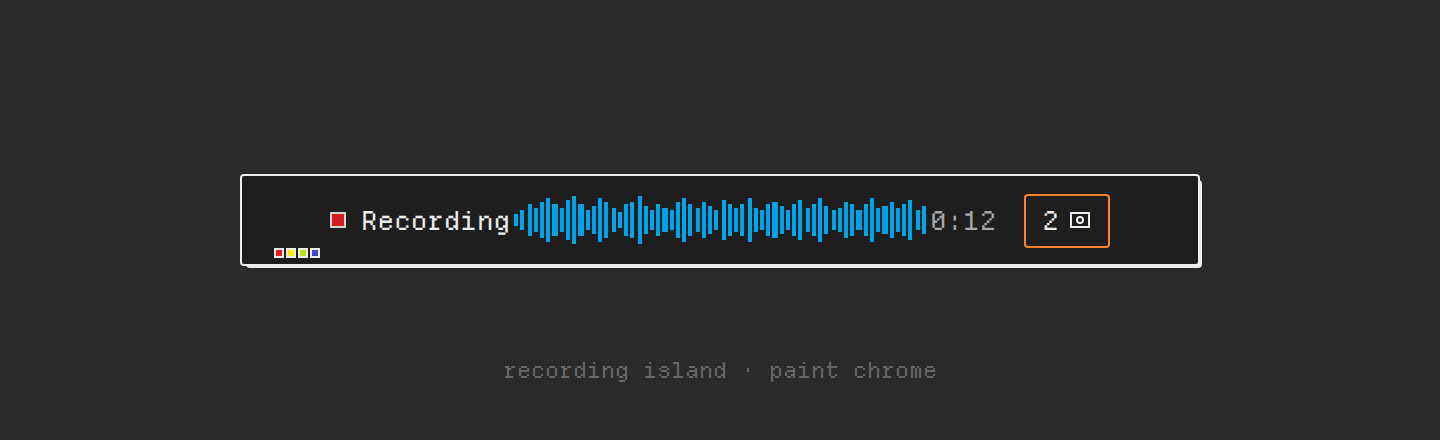
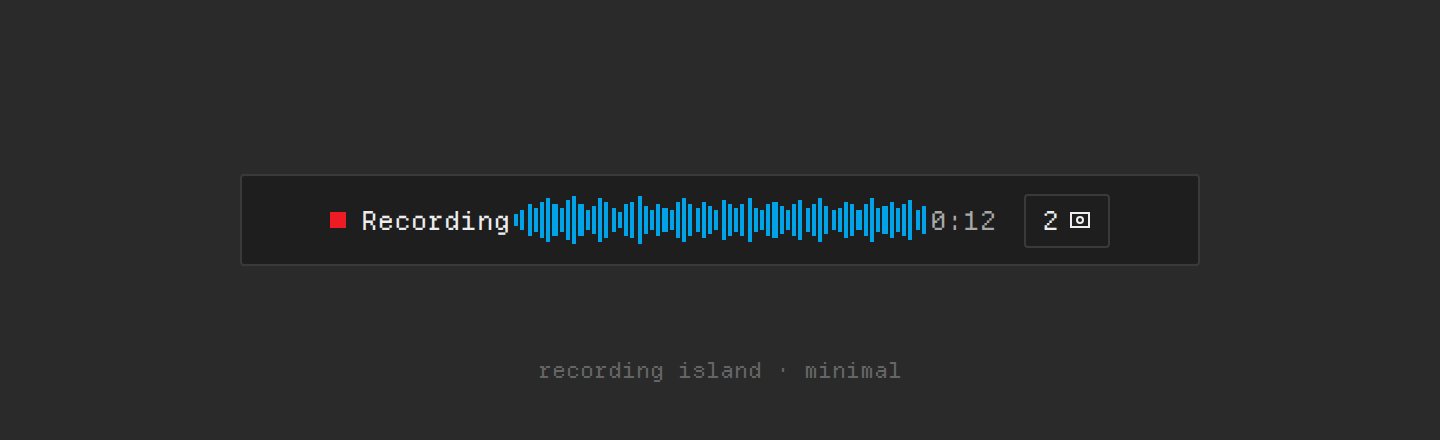
fix(chrome): minimal recording island — drop palette + shadow
Patrick feedback: strip decorative mini palette and hard offset shadow.
Flat fill + thin hairline; keep record square, label, waveform, clock,
capture chip. Same treatment on markup toolbar chrome. Panel size is
exact again. Regen recording-paint light/dark mocks; README sync.

diff --git a/PromptAnnotator/Chrome/RecordingIsland.swift b/PromptAnnotator/Chrome/RecordingIsland.swift
@@ -26,8 +26,7 @@ struct RecordingIslandView: View {
             captures: session.captureCount,
             elapsed: session.elapsed
         )
-        // Hard offset shadow is drawn inside the panel (ChromePanel masksToBounds).
-        // Content footprint stays the same; shadow room is added in islandPanelSize().
+        // Minimal: flat fill + thin hairline. No palette strip, no hard offset shadow.
         return HStack(spacing: 0) {
             leading(layout)
             LiveWaveform(
@@ -40,45 +39,17 @@ struct RecordingIslandView: View {
         }
         .padding(.horizontal, IslandMetrics.inset)
         .frame(width: layout.panel.width, height: layout.panel.height)
-        .overlay(alignment: .bottomLeading) {
-            miniPalette
-                .padding(.leading, IslandMetrics.inset)
-                .padding(.bottom, 3)
-        }
         .background {
-            RoundedRectangle(cornerRadius: Ink.cardRadius, style: .continuous)
-                .fill(Ink.label)
-                .offset(x: Ink.buttonShadow, y: Ink.buttonShadow)
             RoundedRectangle(cornerRadius: Ink.cardRadius, style: .continuous)
                 .fill(Ink.window)
                 .overlay(
                     RoundedRectangle(cornerRadius: Ink.cardRadius, style: .continuous)
-                        .strokeBorder(Ink.label, lineWidth: 1.5)
+                        .strokeBorder(Ink.hairline, lineWidth: 1)
                 )
         }
-        .padding(.trailing, Ink.buttonShadow)
-        .padding(.bottom, Ink.buttonShadow)
         .accessibilityElement(children: .ignore)
         .accessibilityLabel(islandAccessibilityLabel)
         .onAppear { pulse = true }
-    }
-
-    /// Tiny Paint swatch strip — decorative, no layout cost.
-    private var miniPalette: some View {
-        HStack(spacing: 1) {
-            miniSwatch(Ink.paintRed)
-            miniSwatch(Ink.paintYellow)
-            miniSwatch(Ink.paintLime)
-            miniSwatch(Ink.paintBlue)
-        }
-        .accessibilityHidden(true)
-    }
-
-    private func miniSwatch(_ color: Color) -> some View {
-        Rectangle()
-            .fill(color)
-            .frame(width: 5, height: 5)
-            .overlay(Rectangle().strokeBorder(Ink.label, lineWidth: 0.5))
     }
 
     private var islandAccessibilityLabel: String {
@@ -184,7 +155,6 @@ struct RecordingIslandView: View {
     private var recordDot: some View {
         Rectangle()
             .fill(Ink.record)
-            .overlay(Rectangle().strokeBorder(Ink.label, lineWidth: 1))
             .frame(width: 8, height: 8)
             .opacity(pulse ? 1 : 0.35)
             .animation(.easeInOut(duration: 0.85).repeatForever(autoreverses: true), value: pulse)

diff --git a/PromptAnnotator/Chrome/CaptureCountChip.swift b/PromptAnnotator/Chrome/CaptureCountChip.swift
@@ -1,6 +1,6 @@
 import SwiftUI
 
-/// The snapshot count that slides out beside the clock — Paint tile chip.
+/// The snapshot count that slides out beside the clock — flat, hairline only.
 struct CaptureCountChip: View {
     var count: Int
     var ink: Color = Ink.label
@@ -21,7 +21,7 @@ struct CaptureCountChip: View {
         .background(Ink.window, in: RoundedRectangle(cornerRadius: Ink.buttonRadius, style: .continuous))
         .overlay(
             RoundedRectangle(cornerRadius: Ink.buttonRadius, style: .continuous)
-                .strokeBorder(Ink.paintOrange, lineWidth: 1.5)
+                .strokeBorder(Ink.hairline, lineWidth: 1)
         )
         .accessibilityElement(children: .ignore)
         .accessibilityLabel("\(count) \(count == 1 ? "capture" : "captures")")

diff --git a/PromptAnnotator/Chrome/MarkupToolbar.swift b/PromptAnnotator/Chrome/MarkupToolbar.swift
@@ -38,16 +38,9 @@ struct MarkupToolbarView: View {
                 .fill(Ink.window)
                 .overlay(
                     RoundedRectangle(cornerRadius: Ink.cardRadius, style: .continuous)
-                        .strokeBorder(Ink.label, lineWidth: 1.5)
-                )
-                .background(
-                    RoundedRectangle(cornerRadius: Ink.cardRadius, style: .continuous)
-                        .fill(Ink.label)
-                        .offset(x: Ink.hardShadow, y: Ink.hardShadow)
+                        .strokeBorder(Ink.hairline, lineWidth: 1)
                 )
         }
-        .padding(.trailing, Ink.hardShadow)
-        .padding(.bottom, Ink.hardShadow)
     }
 
     private var captureButton: some View {

diff --git a/PromptAnnotator/SessionController.swift b/PromptAnnotator/SessionController.swift
@@ -1169,17 +1169,12 @@ final class SessionController: ObservableObject {
     }
 
     func islandPanelSize() -> CGSize {
-        let panel = IslandMetrics.layout(
+        IslandMetrics.layout(
             style: AppSettings.shared.islandStyle,
             slots: islandChrome.slots,
             captures: captureCount,
             elapsed: elapsed
         ).panel
-        // Extra room so the hard Paint offset shadow stays inside ChromePanel's mask.
-        return CGSize(
-            width: panel.width + Ink.buttonShadow,
-            height: panel.height + Ink.buttonShadow
-        )
     }
 
     private func placeIsland(animated: Bool) {

diff --git a/PromptAnnotator/Chrome/ChromePanel.swift b/PromptAnnotator/Chrome/ChromePanel.swift
@@ -15,7 +15,7 @@ final class ChromePanel: NSPanel {
         isMovable = false
         isOpaque = false
         backgroundColor = .clear
-        // Soft system shadow off — SwiftUI draws a hard 1px offset shadow instead.
+        // Soft system shadow off — island / toolbar draw their own thin hairline.
         hasShadow = false
         sharingType = .none
         isReleasedWhenClosed = false

diff --git a/README.md b/README.md
@@ -31,7 +31,7 @@ appearance is system / light / dark from **general**, or mash `theme: …` in th
 
 the start/stop chord lives in **general** as paint keycaps — click, press a combo (modifier required, or a function key), it rebinds live. reset drops you back on ⌃⌥Space. home, the status bar, the menu panel, and onboarding all read the same stored shortcut.
 
-the recording island matches home: paint-red record square, cyan waveform comb, hard offset shadow drawn inside the panel, departure mono clock, tiny palette strip. same footprint and hit targets — no new timers.
+the recording island stays minimal: paint-red record square, “recording” label, cyan waveform, departure mono clock, and the screenshot-count chip. flat fill, thin hairline — no palette strip, no hard shadow. same layout and hit targets.
 
 <p align="center">
   <picture>
@@ -49,7 +49,7 @@ the recording island matches home: paint-red record square, cyan waveform comb, 
   </picture>
 </p>
 
-<p align="center"><em>recording island · paint chrome</em></p>
+<p align="center"><em>recording island · minimal</em></p>
 
 <p align="center">
   <img src="assets/brand/mocks/icon-concepts.png" alt="da transcribuh app icon concepts" width="920">
@@ -132,7 +132,7 @@ final **dt block** art lives in [`assets/brand/`](assets/brand/):
 - `social-preview.png` (1280×640) — repo social preview; also mirrored as `social-preview-1280x640.png` / `@2x`
 - `screenshots/settings-home-light.png` / `settings-home-dark.png` — settings home mocks for the readme
 - `mocks/home-paint-light.png` / `home-paint-dark.png` — Paint-direction lock mocks
-- `mocks/recording-paint-light.png` / `recording-paint-dark.png` — recording island Paint chrome
+- `mocks/recording-paint-light.png` / `recording-paint-dark.png` — recording island (minimal)
 - `mocks/icon-concepts.png` — app icon explorations (AppIcon not replaced); recommend #1 dt-block square + red shadow
 - `menubar-g-dt-block-16.png` / `menubar-g-dt-block-32.png` — template menu-bar glyph
 

diff --git a/AUDIT_LOG.md b/AUDIT_LOG.md
@@ -6,7 +6,14 @@ Branch: `overnight-audit` (from `main`). Linux VM — no Xcode build. Changes ke
 
 ---
 
-## Final summary (Runs 1–27)
+## Final summary (Runs 1–28)
+
+### Run 28 — Minimal recording island (Patrick feedback)
+
+- Strip island décor: no mini palette, no hard offset shadow, thin `Ink.hairline` only. Keep red record square, “Recording”, cyan waveform, Departure Mono clock, capture chip (hairline, not orange).
+- `islandPanelSize()` returns exact panel size again (no shadow padding).
+- Markup toolbar: same flat + hairline (functional ink colors stay).
+- Mocks: `assets/brand/mocks/recording-paint-{light,dark}.png` regenerated. README look copy updated.
 
 ### Run 27 — Final polish + compile-safety audit (no code changes)
 
